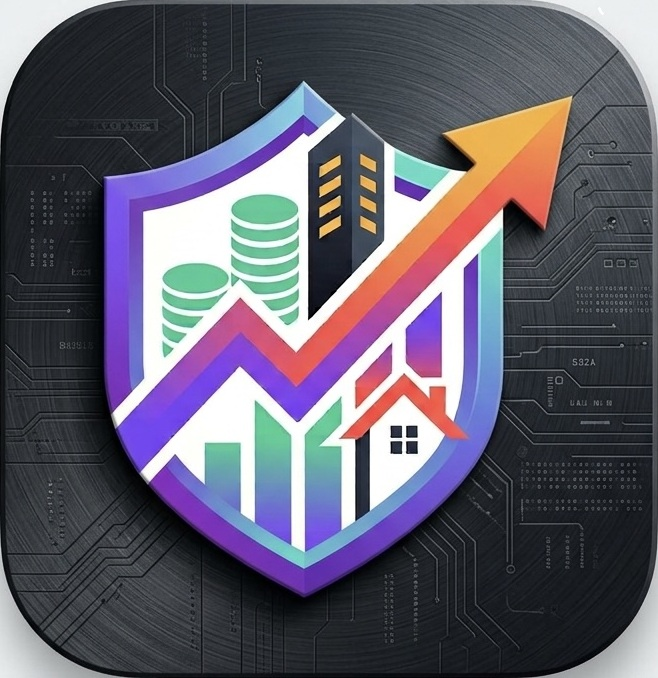
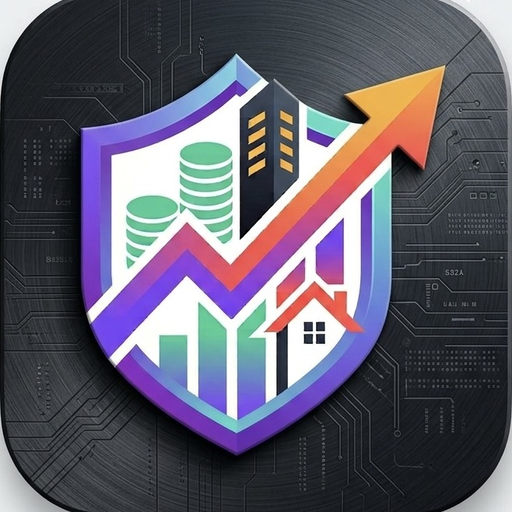
Add files via upload

diff --git a/index.html b/index.html
@@ -5,7 +5,13 @@
 <meta name="viewport" content="width=device-width, initial-scale=1.0, viewport-fit=cover">
 <meta name="theme-color" content="#0F1117">
 <link rel="manifest" href="manifest.webmanifest">
-<link rel="apple-touch-icon" href="icon-192.png">
+<link rel="apple-touch-icon" sizes="180x180" href="apple-touch-icon.png">
+<link rel="icon" type="image/png" sizes="256x256" href="icon-256.png">
+<meta name="application-name" content="Budget">
+<meta name="apple-mobile-web-app-capable" content="yes">
+<meta name="apple-mobile-web-app-title" content="Budget">
+<meta name="apple-mobile-web-app-status-bar-style" content="black-translucent">
+<meta name="mobile-web-app-capable" content="yes">
 <meta name="apple-mobile-web-app-capable" content="yes">
 <meta name="apple-mobile-web-app-status-bar-style" content="black-translucent">
 <meta name="apple-mobile-web-app-title" content="Budget v4">
@@ -623,6 +629,15 @@ button, select, input[type="date"], input[type="checkbox"]{min-height:40px}
 .ryt-legende i.cette{background:var(--menthe)}
 .ryt-legende i.avant{background:var(--trait)}
 
+
+/* ===== Guide d'installation ===== */
+.inst-guide{background:var(--carte2);border-radius:var(--r-m);padding:12px 14px;margin-top:var(--esp-2)}
+.inst-titre{font-size:11px;font-weight:800;letter-spacing:.07em;text-transform:uppercase;
+  color:var(--violet);margin-bottom:8px}
+.inst-guide ol{margin:0;padding-left:20px}
+.inst-guide li{font-size:13px;line-height:1.6;color:var(--encre);margin-bottom:5px}
+.inst-guide li:last-child{margin-bottom:0}
+
 /* ===== Micro-interactions =====
    Le mouvement sert à comprendre : d'où vient un élément, ce qui vient de
    changer, ce qui est en cours. Tout est désactivé si le système demande
@@ -1059,6 +1074,10 @@ details.etaler .eta-n{width:76px;text-align:right;font-weight:600}
     </div>
     <h2 class="sect">Confort et sécurité</h2>
     <div class="carte">
+      <div class="tete"><h3>📥 Installer l'application</h3><button class="info-btn" data-infocle="installer" aria-label="Informations">i</button></div>
+      <div class="corps" id="installer-corps"></div>
+    </div>
+    <div class="carte">
       <div class="tete"><h3>🎨 Apparence</h3></div>
       <div class="corps">
         <div class="ligne"><span class="lab">Thème</span>
@@ -1455,6 +1474,7 @@ const INFOS = {
   cashcomptes: ['Cash dédié PEA / PER', "Une poche « → Cash PEA » ou « → Cash PER » met de l'argent de côté pour ces comptes, en plus de tes versements mensuels programmés (qui restent prélevés sur le budget du mois). Le cash PEA est consommé par tes achats directs PEA ; le cash PER par les versements exceptionnels que tu saisis ici. Si un achat PEA dépasse le cash dédié, le complément est pris sur le disponible général."],
   raccourci: ['Raccourci iOS / Android', "L'application peut enregistrer une dépense directement depuis une adresse : ?ajout=Boulangerie&montant=6 ajoute 6 € en dépenses libres du mois en cours, avec une confirmation à l'écran. Sur iPhone, l'app Raccourcis permet d'en faire un bouton d'écran d'accueil ou une commande Siri (« Dis Siri, ajoute une dépense »). Ajoute &cat=transport (ou une autre catégorie) pour changer la destination. L'adresse est nettoyée après enregistrement : recharger la page ne crée pas de doublon."],
   clavier: ['Raccourcis clavier', "Sur ordinateur : les touches 1 à 6 ouvrent les onglets dans l'ordre de la barre du bas, « n » place le curseur dans la dépense rapide, « / » ou Ctrl+K (⌘K sur Mac) ouvre la recherche, Ctrl+Z (⌘Z) annule la dernière action, « ? » affiche cette aide. Les raccourcis sont ignorés pendant la saisie dans un champ."],
+  installer: ['Installer l\u2019application', "Installée, l'application s'ouvre dans sa propre fenêtre — sans barre d'adresse ni onglets — depuis le menu Démarrer, le Dock ou l'écran d'accueil, et fonctionne sans connexion. Les données restent celles du navigateur qui a servi à l'installer : elles ne sont ni copiées ni synchronisées ailleurs. Sur Chrome et Edge, un bouton lance l'installation directement ; Safari ne l'expose pas, d'où les instructions manuelles. Firefox pour ordinateur ne prend pas en charge cette fonction."],
   profils: ['Profils', "Plusieurs budgets indépendants sur le même appareil : chacun a ses mois, ses comptes, son portefeuille et ses réglages, sans aucun mélange. Pensé pour un couple qui gère séparément, ou pour distinguer un budget personnel d'une activité annexe. Le profil actif est mémorisé, et l'application se recharge au changement. Chaque profil s'exporte séparément, et le verrouillage reste commun à l'appareil."],
   etiquettes: ['Étiquettes', "Un mot précédé de # dans un libellé devient une étiquette : « Révision #voiture », « Croquettes #chat ». L'application additionne alors tout ce qui porte la même étiquette, quelles que soient les catégories et les mois — pratique pour savoir ce que coûte réellement une voiture, un animal, un enfant ou un projet, sans créer de rubriques dédiées. La recherche 🔍 accepte aussi les étiquettes."],
   bilanAnnuel: ['Bilan de l\u2019année', "Somme des mois écoulés de l'année civile : entrées, grandes catégories de dépenses, montant investi et épargne totale (ce qui est investi plus ce qui reste). Le taux d'épargne rapporte cette épargne aux entrées — c'est l'indicateur le plus prédictif du patrimoine à long terme, bien plus que le choix des placements. Les écarts avec l'année précédente s'affichent dès qu'elle est disponible."],
@@ -1488,8 +1508,16 @@ document.addEventListener('click', e => {
   if (e.target.id === 'info-fermer' || e.target.id === 'voile-info')
     document.getElementById('voile-info').classList.remove('vu');
 });
-const APP_VERSION = '9.9.1';
+const APP_VERSION = '10.0.1';
 const CHANGELOG = [
+  {v: '10.0.1', d: '20/08/2026', pts: [
+    "Nouvelle icône appliquée à toutes les tailles : 192, 256, 512 et 1024 px, plus une vignette Apple de 180 px et deux versions « maskable » pour Android.",
+    "Les captures d'écran de l'invite d'installation reprennent la nouvelle icône."]},
+  {v: '10.0.0', d: '20/08/2026', pts: [
+    "L'application s'installe sur ordinateur (Windows, macOS, Linux) comme sur téléphone : elle s'ouvre alors dans sa propre fenêtre, sans barre d'adresse, et fonctionne sans connexion.",
+    "Nouvelle carte « Installer l'application » dans les Réglages : bouton d'installation directe sur Chrome et Edge, marche à suivre détaillée sur Safari, iOS, Android et Linux.",
+    "Manifeste complet : icônes dédiées (dont versions « maskable » et 1024 px pour macOS), captures d'écran pour l'invite d'installation, trois raccourcis (saisir une dépense, voir le mois, portefeuille).",
+    "Les raccourcis ouvrent directement la bonne page ou la saisie rapide."]},
   {v: '9.9.1', d: '20/08/2026', pts: [
     "Journal des versions et README expurgés : plus aucun montant réel, nom d'établissement ou de personne — ces fichiers sont publics.",
     "Les noms d'établissements codés en dur dans l'interface (courtier, assureur) laissent place à des libellés génériques : compte-titres, PEA, PER."]},
@@ -4796,6 +4824,7 @@ function rendreReglages(){
         inputmode="decimal" placeholder="aucun plafond"><span class="u">${devise().sym}</span></span></label>`).join('');
 
   // ----- Profils -----
+  rendreInstallation();
   const pl = document.getElementById('profils-liste');
   if (pl){
     const actif = profilActif();
@@ -6495,6 +6524,95 @@ addEventListener('keydown', e => {
   }, {passive: true});
 })();
 
+/* ===== Installation en application =====
+   Chrome et Edge fournissent une invite native qu'il faut capter puis déclencher
+   à la demande. Safari (iOS comme macOS) ne l'expose pas : on donne alors la
+   marche à suivre, différente sur chaque plateforme. */
+let _inviteInstall = null;
+addEventListener('beforeinstallprompt', e => {
+  e.preventDefault();
+  _inviteInstall = e;
+  rendreInstallation();
+});
+addEventListener('appinstalled', () => {
+  _inviteInstall = null;
+  rendreInstallation();
+  toast('✅ Application installée');
+});
+function estInstallee(){
+  return matchMedia('(display-mode: standalone)').matches
+      || matchMedia('(display-mode: window-controls-overlay)').matches
+      || navigator.standalone === true;
+}
+function plateforme(){
+  const ua = navigator.userAgent;
+  const tactileMac = navigator.platform === 'MacIntel' && navigator.maxTouchPoints > 1;
+  if (/iPhone|iPad|iPod/.test(ua) || tactileMac) return 'ios';
+  if (/Android/.test(ua)) return 'android';
+  if (/Macintosh/.test(ua)) return 'mac';
+  if (/Windows/.test(ua)) return 'windows';
+  if (/Linux/.test(ua)) return 'linux';
+  return 'autre';
+}
+function navigateur(){
+  const ua = navigator.userAgent;
+  if (/Firefox\//.test(ua)) return 'firefox';
+  if (/Edg\//.test(ua)) return 'edge';
+  if (/OPR\//.test(ua)) return 'opera';
+  if (/Chrome\//.test(ua)) return 'chrome';
+  if (/Safari\//.test(ua)) return 'safari';
+  return 'autre';
+}
+function rendreInstallation(){
+  const zone = document.getElementById('installer-corps');
+  if (!zone) return;
+  if (estInstallee()){
+    zone.innerHTML = `<p class="note">✅ L'application est installée sur cet appareil : elle s'ouvre dans sa
+      propre fenêtre, sans barre d'adresse, et fonctionne sans connexion.</p>`;
+    return;
+  }
+  const p = plateforme(), n = navigateur();
+  const avantages = `<p class="note">Installée, l'application s'ouvre dans sa propre fenêtre depuis le menu Démarrer,
+    le Dock ou l'écran d'accueil, garde ses données au même endroit et fonctionne <b>sans connexion</b>.</p>`;
+  if (_inviteInstall){
+    zone.innerHTML = `${avantages}
+      <button class="btn or ligne2" id="btn-installer">📥 Installer maintenant</button>
+      <p class="note">Ton navigateur propose l'installation directe : un clic suffit.</p>`;
+    return;
+  }
+  const guides = {
+    ios: ['Sur iPhone et iPad (Safari)', [
+      'Touche le bouton <b>Partager</b> (le carré avec une flèche vers le haut), en bas de l\u2019écran.',
+      'Fais défiler puis choisis <b>« Sur l\u2019écran d\u2019accueil »</b>.',
+      'Confirme avec <b>Ajouter</b> : une icône apparaît comme pour une application classique.']],
+    mac: ['Sur Mac (Safari 17 ou plus récent)', [
+      'Menu <b>Fichier</b> → <b>« Ajouter au Dock… »</b>.',
+      'Confirme le nom, puis <b>Ajouter</b>.',
+      'Avec Chrome ou Edge : icône d\u2019installation à droite de la barre d\u2019adresse, ou menu ⋮ → <b>Installer…</b>']],
+    windows: ['Sur Windows (Chrome, Edge)', [
+      'Clique sur l\u2019icône <b>Installer</b> (un écran avec une flèche) à droite de la barre d\u2019adresse.',
+      'Ou menu <b>⋮</b> → <b>Applications</b> → <b>Installer cette page en tant qu\u2019application</b>.',
+      'L\u2019application apparaît alors dans le menu Démarrer et peut être épinglée à la barre des tâches.']],
+    linux: ['Sur Linux (Chrome, Chromium, Edge)', [
+      'Icône <b>Installer</b> à droite de la barre d\u2019adresse, ou menu <b>⋮</b> → <b>Installer…</b>',
+      'Un raccourci est créé dans le menu des applications.']],
+    android: ['Sur Android (Chrome)', [
+      'Menu <b>⋮</b> → <b>Ajouter à l\u2019écran d\u2019accueil</b> ou <b>Installer l\u2019application</b>.',
+      'Confirme : l\u2019icône rejoint ton écran d\u2019accueil.']],
+  };
+  const [titre, etapes] = guides[p] || ['Sur ton appareil', [
+    'Cherche l\u2019option <b>Installer</b> ou <b>Ajouter à l\u2019écran d\u2019accueil</b> dans le menu de ton navigateur.']];
+  const note = n === 'firefox'
+    ? `<p class="note">⚠ Firefox pour ordinateur ne propose pas l'installation des applications web.
+       Chrome, Edge ou Safari le permettent — l'adresse et les données restent les mêmes,
+       à condition d'exporter ta sauvegarde puis de la réimporter dans l'autre navigateur.</p>` : '';
+  zone.innerHTML = `${avantages}
+    <div class="inst-guide">
+      <div class="inst-titre">${titre}</div>
+      <ol>${etapes.map(e => `<li>${e}</li>`).join('')}</ol>
+    </div>${note}`;
+}
+
 /* ===== Saisie rapide accessible partout =====
    Le geste le plus fréquent — noter une dépense — ne doit pas imposer de
    revenir à l'Accueil. Une feuille monte depuis le bas, quelle que soit la page. */
@@ -6543,6 +6661,15 @@ function validerSaisie(){
   signaler(document.querySelector('.hero'));
   toast(`${label} ${fmt(montant)}${sup}`, true);
 }
+document.addEventListener('click', e => {
+  if (e.target.id !== 'btn-installer' || !_inviteInstall) return;
+  _inviteInstall.prompt();
+  _inviteInstall.userChoice.then(r => {
+    if (r.outcome !== 'accepted') toast('Installation annulée — tu pourras la relancer depuis les Réglages');
+    _inviteInstall = null;
+    rendreInstallation();
+  });
+});
 document.getElementById('fab').onclick = ouvrirSaisie;
 document.getElementById('ps-fermer').onclick = fermerSaisie;
 document.getElementById('ps-valider').onclick = validerSaisie;
@@ -6720,6 +6847,13 @@ function traiterAjoutURL(){
   if (selTheme) selTheme.value = etat.config.theme || 'auto';
   rendreTout();
   if (traiterAjoutURL()) rendreTout();
+  // raccourcis du manifeste : ?page=mois, ?saisie=1
+  const _p = new URLSearchParams(location.search);
+  const _page = _p.get('page');
+  if (_page && document.querySelector(`nav button[data-page="${_page}"]`))
+    document.querySelector(`nav button[data-page="${_page}"]`).click();
+  if (_p.get('saisie')) setTimeout(ouvrirSaisie, 300);
+  if (_page || _p.get('saisie')) history.replaceState(null, '', location.pathname);
   // Assistant : seulement sur une application réellement vierge. Toute trace de
   // saisie (entrée, dépense, compte garni, position) signifie qu'il est inutile.
   const dejaUtilisee = clesMois().some(k => {

diff --git a/sw.js b/sw.js
@@ -1,8 +1,11 @@
 // Service Worker — Budget v4 (cache d'abord, fonctionnement hors ligne)
-const CACHE = 'budget-v4-r57';
+const CACHE = 'budget-v4-r59';
 // index.html est le seul fichier indispensable ; les autres sont un confort.
 const ESSENTIELS = ['./', './index.html'];
-const OPTIONNELS = ['./manifest.webmanifest', './icon-192.png', './icon-512.png'];
+const OPTIONNELS = ['./manifest.webmanifest',
+  './icon-192.png', './icon-256.png', './icon-512.png', './icon-1024.png',
+  './icon-maskable-192.png', './icon-maskable-512.png', './apple-touch-icon.png',
+  './capture-large.png', './capture-mobile.png'];
 
 self.addEventListener('install', e => {
   e.waitUntil((async () => {

diff --git a/CHANGELOG.md b/CHANGELOG.md
@@ -6,6 +6,30 @@ Toutes les évolutions notables de l'application. Le journal est aussi consultab
 > montants réels, de noms de comptes ni d'établissements. Les exemples chiffrés y
 > sont fictifs ou génériques.
 
+## v10.0.1 — 20/08/2026
+- **Nouvelle icône.** Déclinée dans toutes les tailles utiles : 192, 256, 512 et 1024 px pour les systèmes de bureau, une vignette de 180 px pour l'écran d'accueil iOS, et deux versions **« maskable »** pour Android. Ces dernières placent le motif dans les 78 % centraux, sur un fond assorti au thème : les masques circulaires ou en goutte appliqués par le système rognent jusqu'à un cinquième de chaque bord sans amputer le dessin. Le fin liseré clair qui entourait l'image d'origine a été détouré, faute de quoi il serait apparu comme une bordure grise.
+- Les captures d'écran de l'invite d'installation reprennent la nouvelle icône.
+
+## v10.0.0 — 20/08/2026 — *installation sur ordinateur*
+
+L'application était installable sur téléphone mais son manifeste ne permettait pas une installation propre sur ordinateur : orientation forcée en portrait, aucune capture d'écran (nécessaire à l'invite enrichie de Chrome et Edge), icônes déclarées « maskable » sans respecter la zone de sécurité, couleurs de thème héritées de l'ancienne identité.
+
+### Manifeste complet
+Identifiant stable, `display_override` (dont le mode fenêtre avec superposition des contrôles), orientation libre, couleurs de la charte, catégories, langue, et reprise du focus si une fenêtre est déjà ouverte. **Six icônes** : quatre classiques (192 à 1024 px, cette dernière pour l'affichage macOS) et deux « maskable » dont le motif tient dans la zone sûre, pour ne pas être rogné par les masques d'Android. **Deux captures d'écran** (large et étroite) alimentent l'invite d'installation. **Trois raccourcis** apparaissent au clic droit sur l'icône : saisir une dépense, ouvrir le mois, ouvrir le portefeuille.
+
+### Carte « Installer l'application »
+Dans Réglages → Confort et sécurité. Sur Chrome et Edge, l'invite native est captée et un bouton lance l'installation en un clic. Ailleurs, la marche à suivre s'adapte à la plateforme détectée :
+- **Windows** — icône d'installation dans la barre d'adresse, ou menu ⋮ → Applications ;
+- **macOS** — Safari 17 : Fichier → « Ajouter au Dock… » ; alternative Chrome/Edge ;
+- **iPhone / iPad** — Partager → « Sur l'écran d'accueil » ;
+- **Android** — menu ⋮ → « Installer l'application » ;
+- **Linux** — icône d'installation ou menu ⋮.
+
+Firefox pour ordinateur ne prenant pas en charge l'installation des applications web, la limitation est signalée plutôt que laissée à deviner. Une fois installée, la carte le confirme au lieu de proposer l'opération.
+
+### Précision sur les données
+Les données restent celles du navigateur qui a servi à l'installer : elles ne sont ni copiées ni synchronisées. Pour passer d'un appareil ou d'un navigateur à un autre, l'export et l'import de sauvegarde restent la voie à suivre.
+
 ## v9.9.1 — 20/08/2026
 - **Journal des versions expurgé.** Ce fichier est publié sur le dépôt : il contenait des montants réels (soldes, revenus, patrimoine), des noms d'établissements et un prénom. Tous les exemples chiffrés sont devenus génériques, sans que le raisonnement décrit y perde quoi que ce soit. Les 55 versions sont conservées.
 - **Interface rendue générique.** Les noms d'établissements étaient codés en dur dans l'application (nom du courtier, de l'assureur, du compte-titres) et un prénom servait d'exemple dans la saisie des remboursements de vacances. Ils laissent place à des libellés neutres — **compte-titres**, **PEA**, **PER**, « part d'un proche ». Les identifiants internes sont inchangés : aucune sauvegarde n'est affectée.
